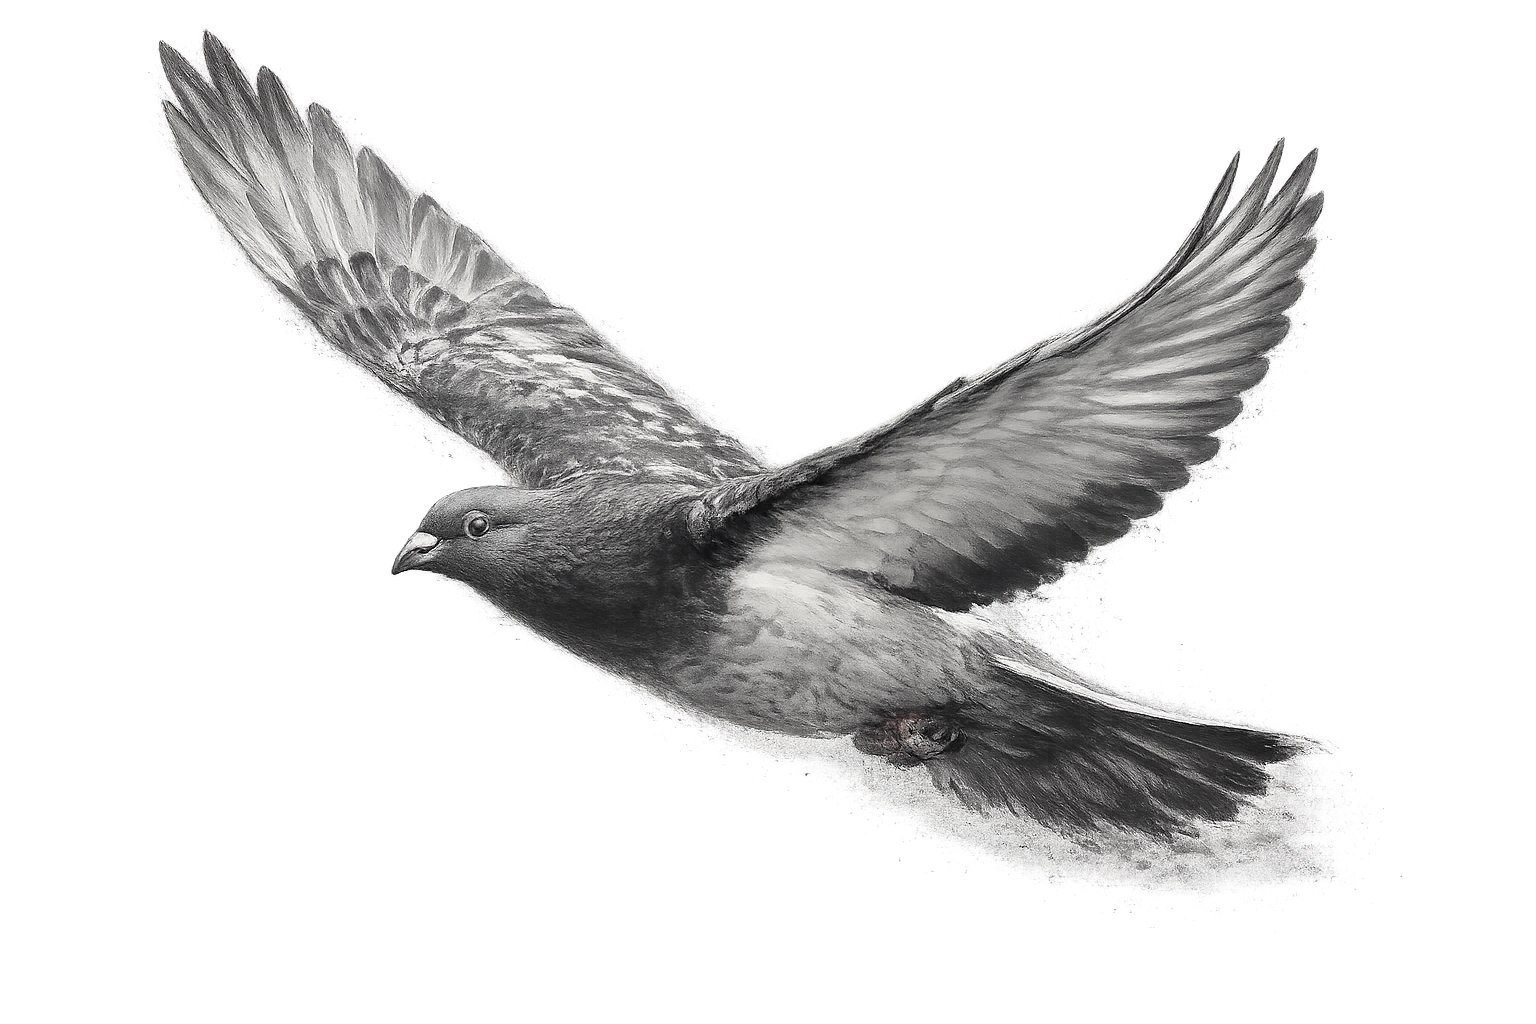
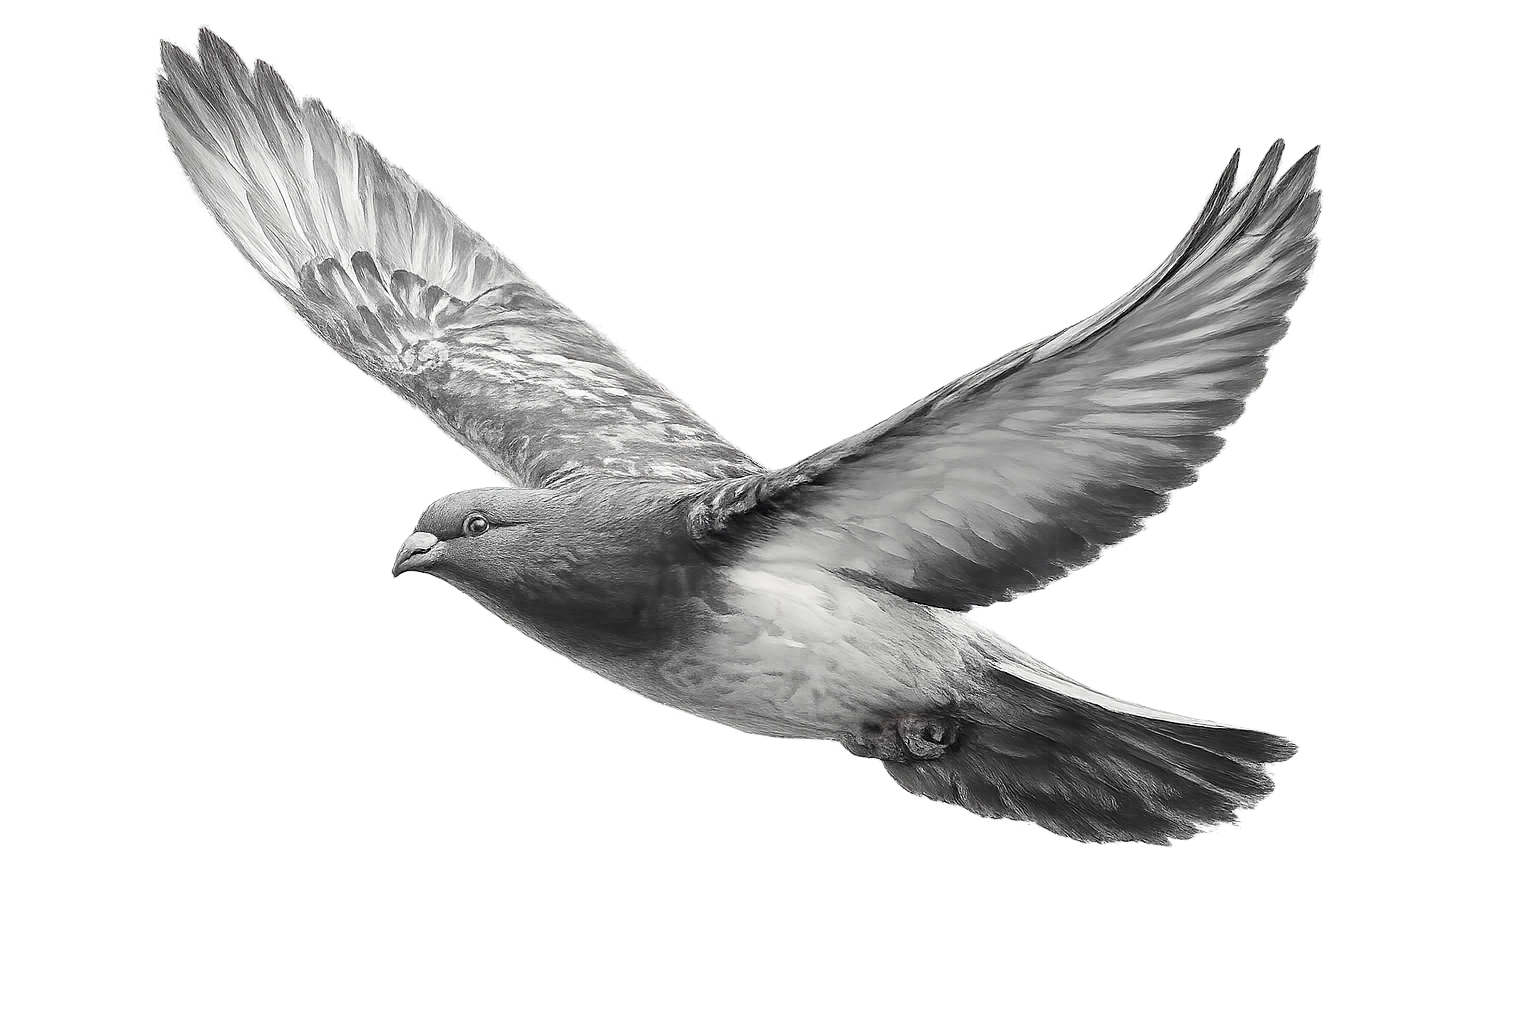
Replace third hero pigeon image

diff --git a/style-clean.css b/style-clean.css
@@ -862,7 +862,7 @@ footer p {
     top: 20%;
     width: 150px;
     height: auto;
-    opacity: 0.35;
+    opacity: 0.55;
     z-index: 0;
     pointer-events: none;
 }
